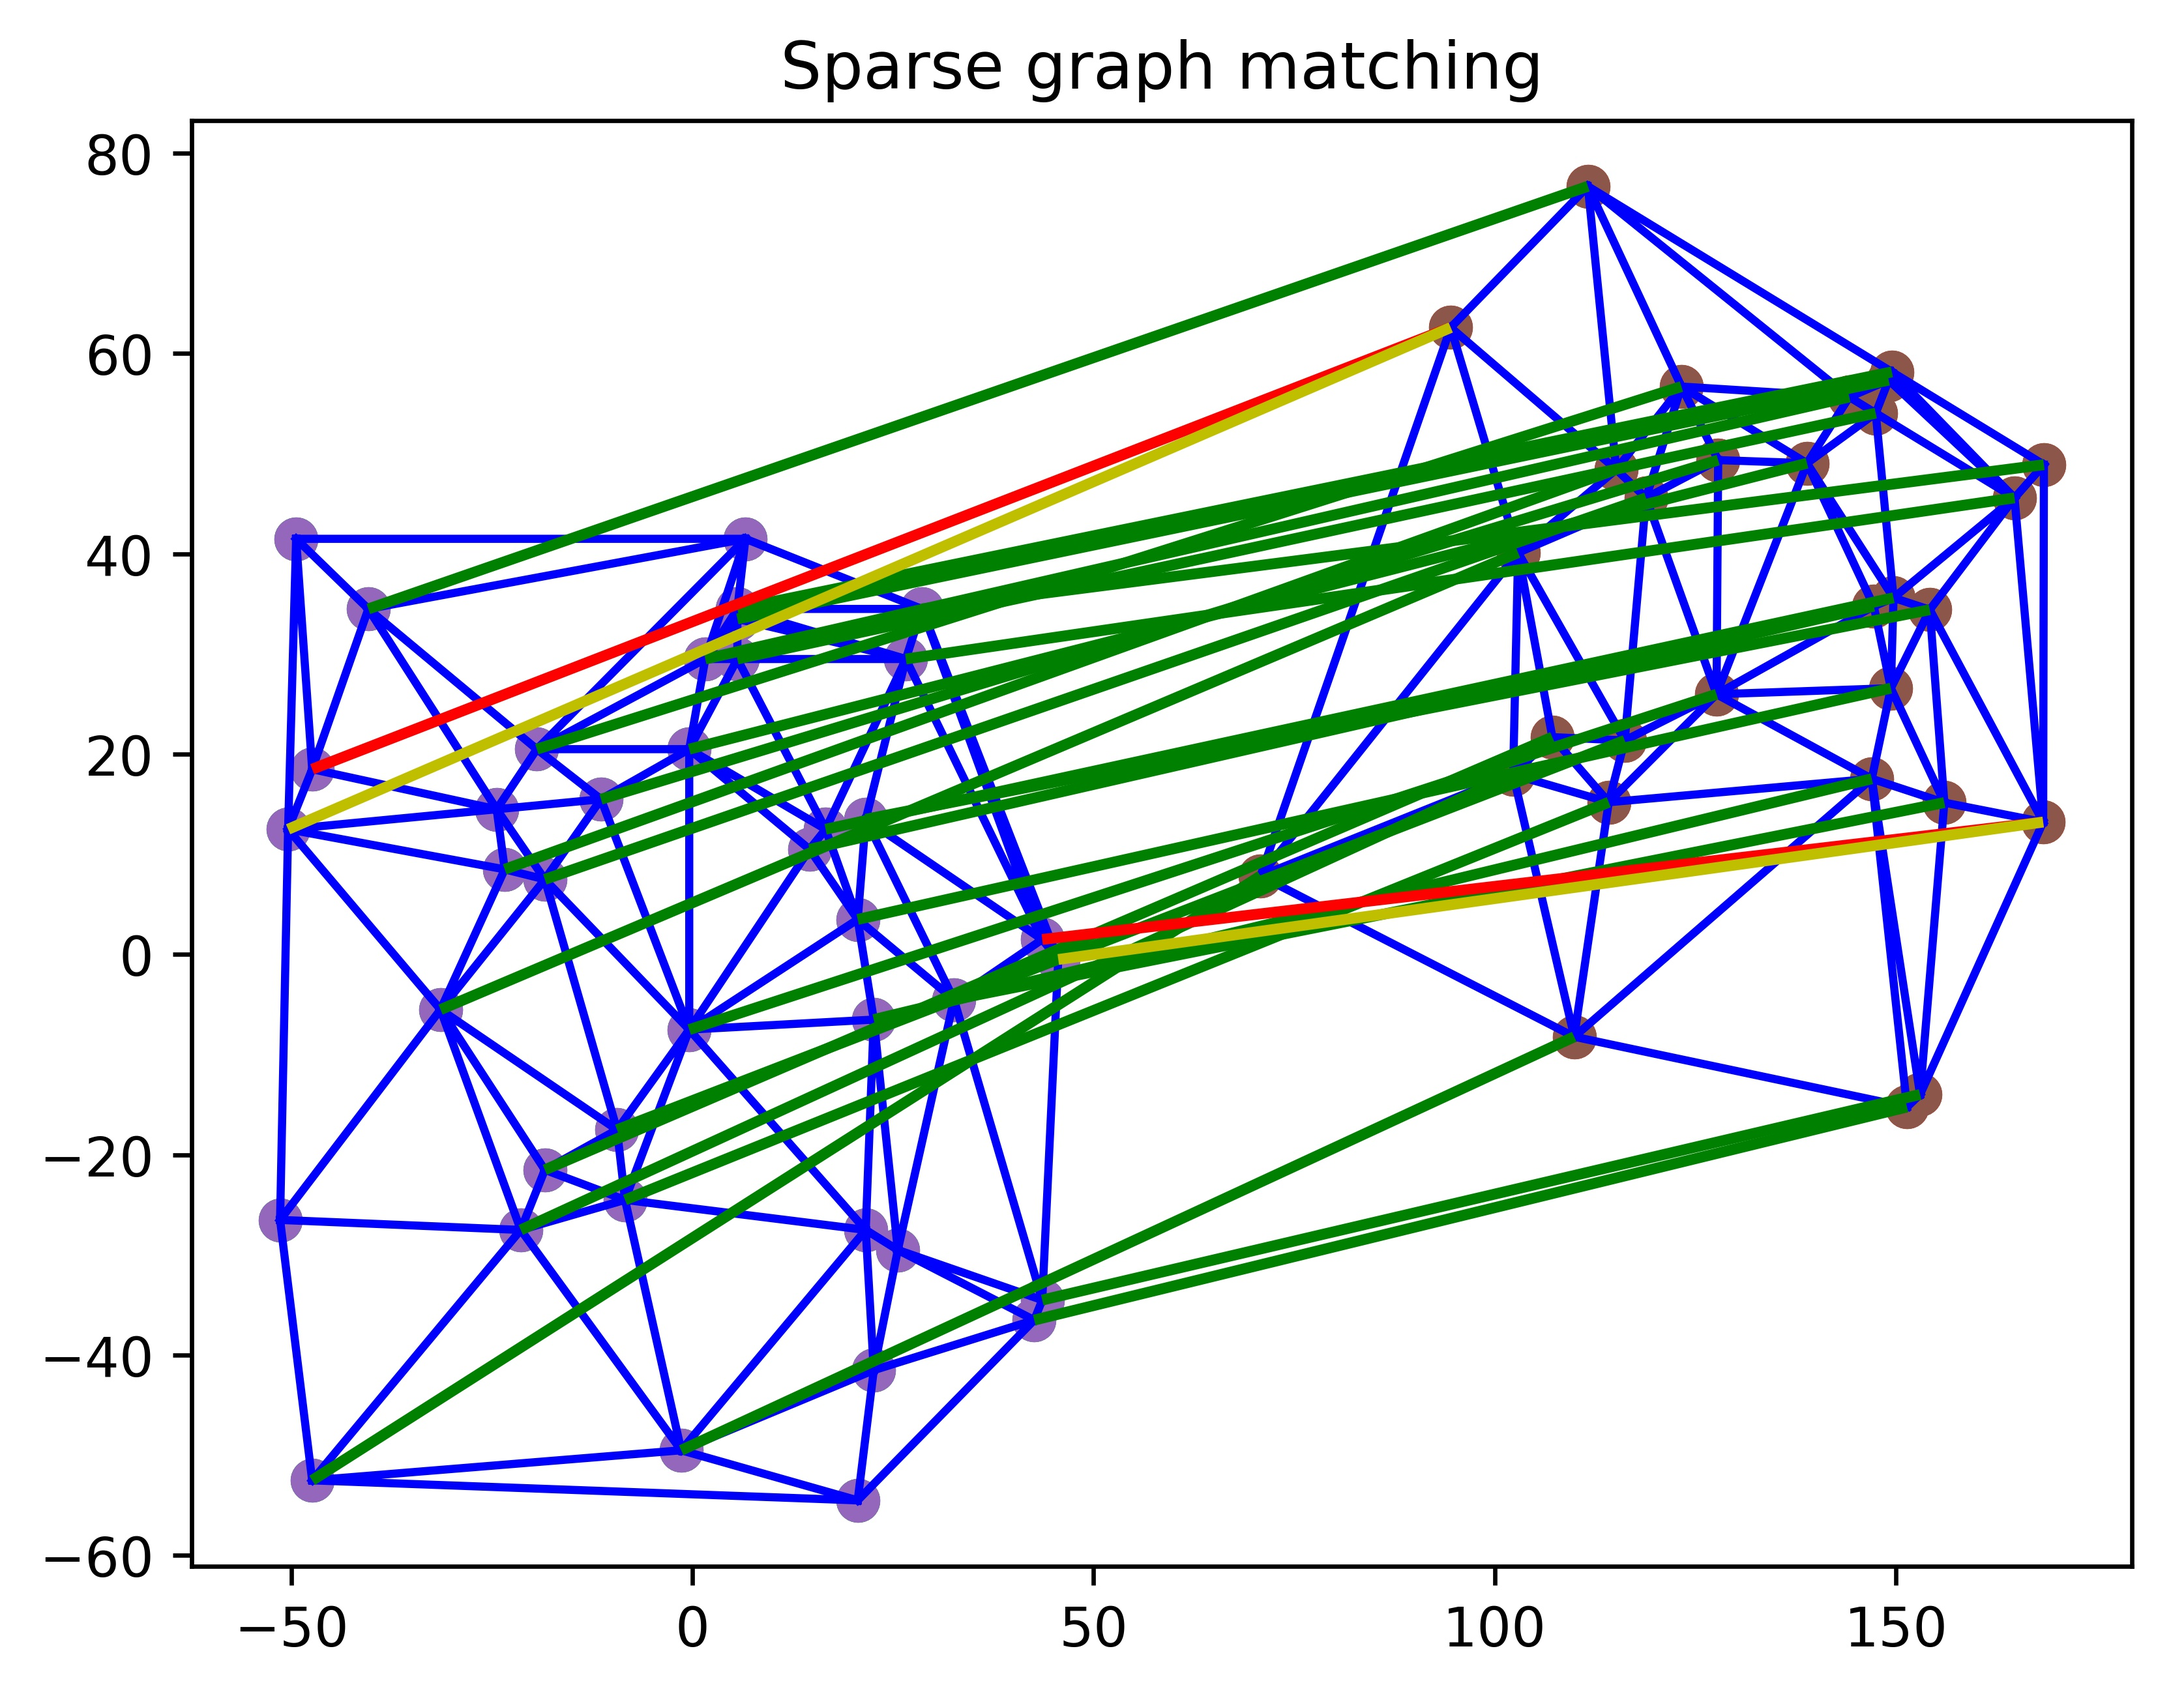
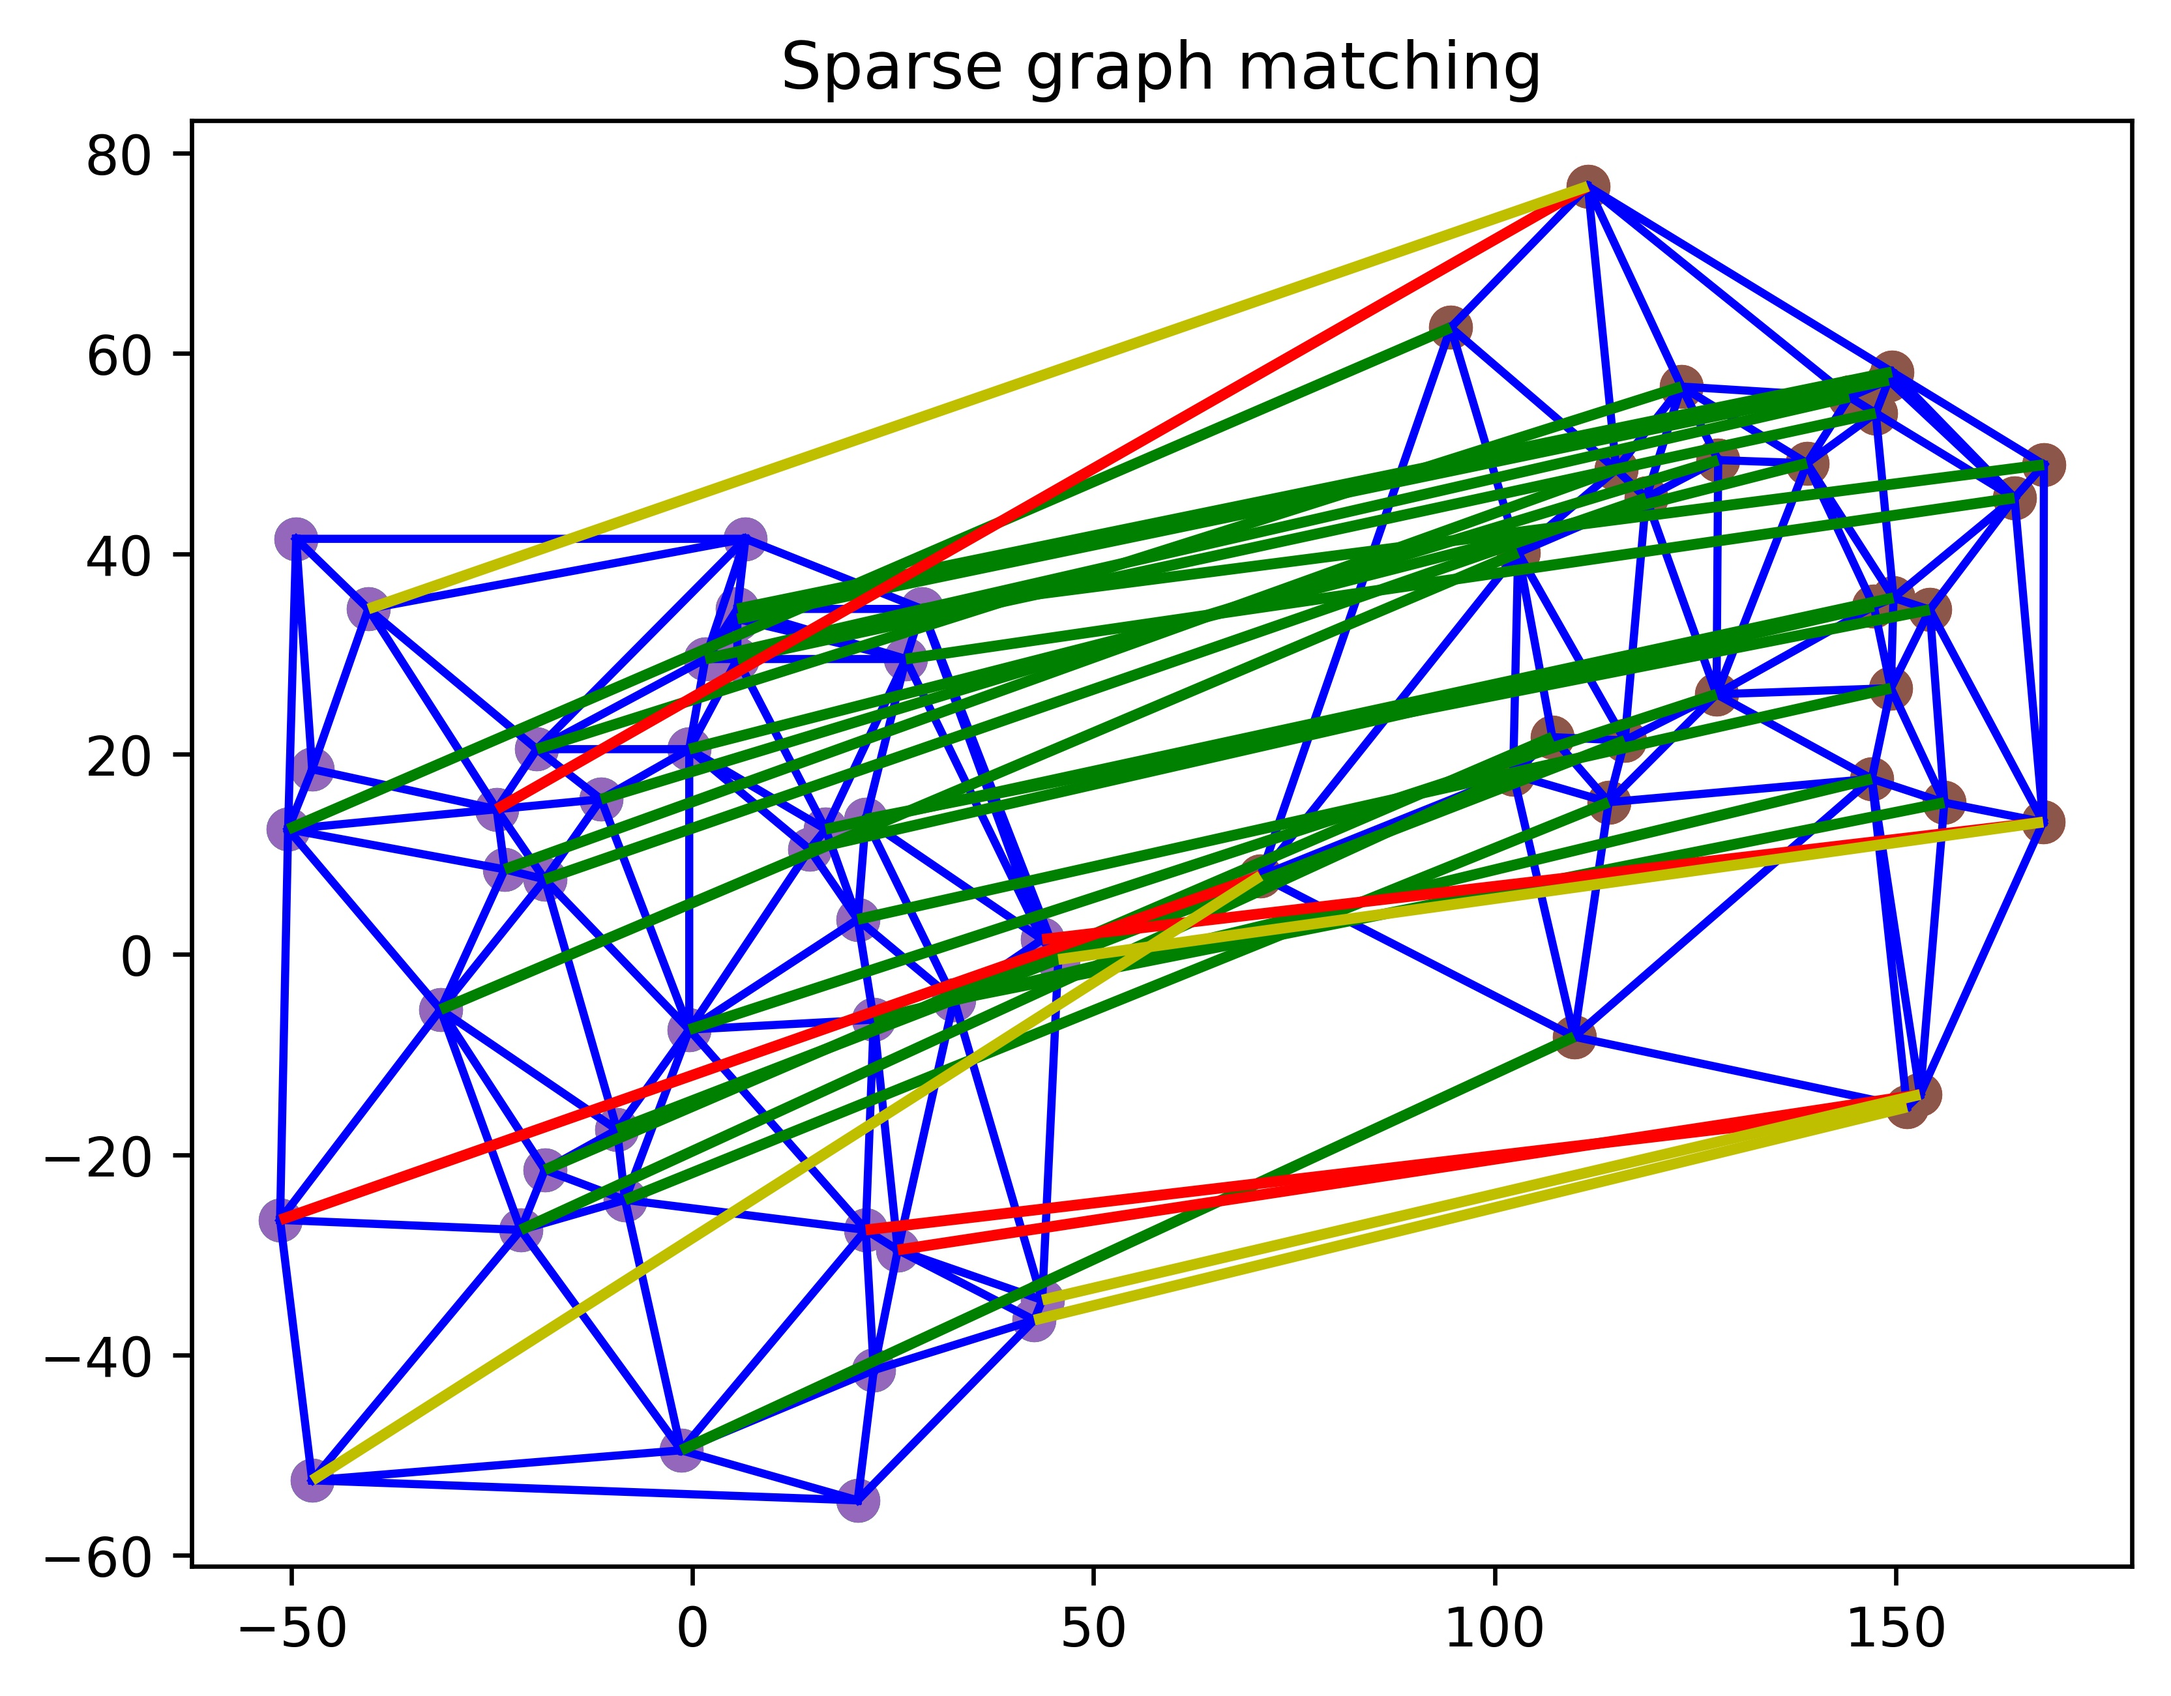
README: Fix sparse results

diff --git a/demo.py b/demo.py
@@ -65,7 +65,7 @@ def main():
     plot = plt.subplots()
     plot[1].title.set_text('Ground-truth matching')
     draw_results(plot, points1, points2, X=X_gt)
-    plt.savefig(os.path.join(output_dir, 'ground-truth.jpg'), dpi=600, bbox_inches='tight')
+    # plt.savefig(os.path.join(output_dir, 'ground-truth.jpg'), dpi=600, bbox_inches='tight')
     
     # Graph matching
 
@@ -105,7 +105,7 @@ def main():
     plot = plt.subplots()
     plot[1].title.set_text('Fully-connected graph matching')
     draw_results(plot, points1, points2, X=X_dense, X_gt=X_gt)
-    plt.savefig(os.path.join(output_dir, 'dense.jpg'), dpi=600, bbox_inches='tight')
+    # plt.savefig(os.path.join(output_dir, 'dense.jpg'), dpi=600, bbox_inches='tight')
     
     # Sparse graphs
     # Building the graphs based on Delaunay triangulation
@@ -128,7 +128,7 @@ def main():
     plot[1].title.set_text('Sparse graph matching')
     plt.triplot(points1[:,0], points1[:,1], tri1.simplices, color='b')
     plt.triplot(points2[:,0], points2[:,1], tri2.simplices, color='b')
-    draw_results(plot, points1, points2, X=X_dense, X_gt=X_gt)
+    draw_results(plot, points1, points2, X=X_sparse, X_gt=X_gt)
     plt.savefig(os.path.join(output_dir, 'sparse.jpg'), dpi=600, bbox_inches='tight')
     plt.show()
 
